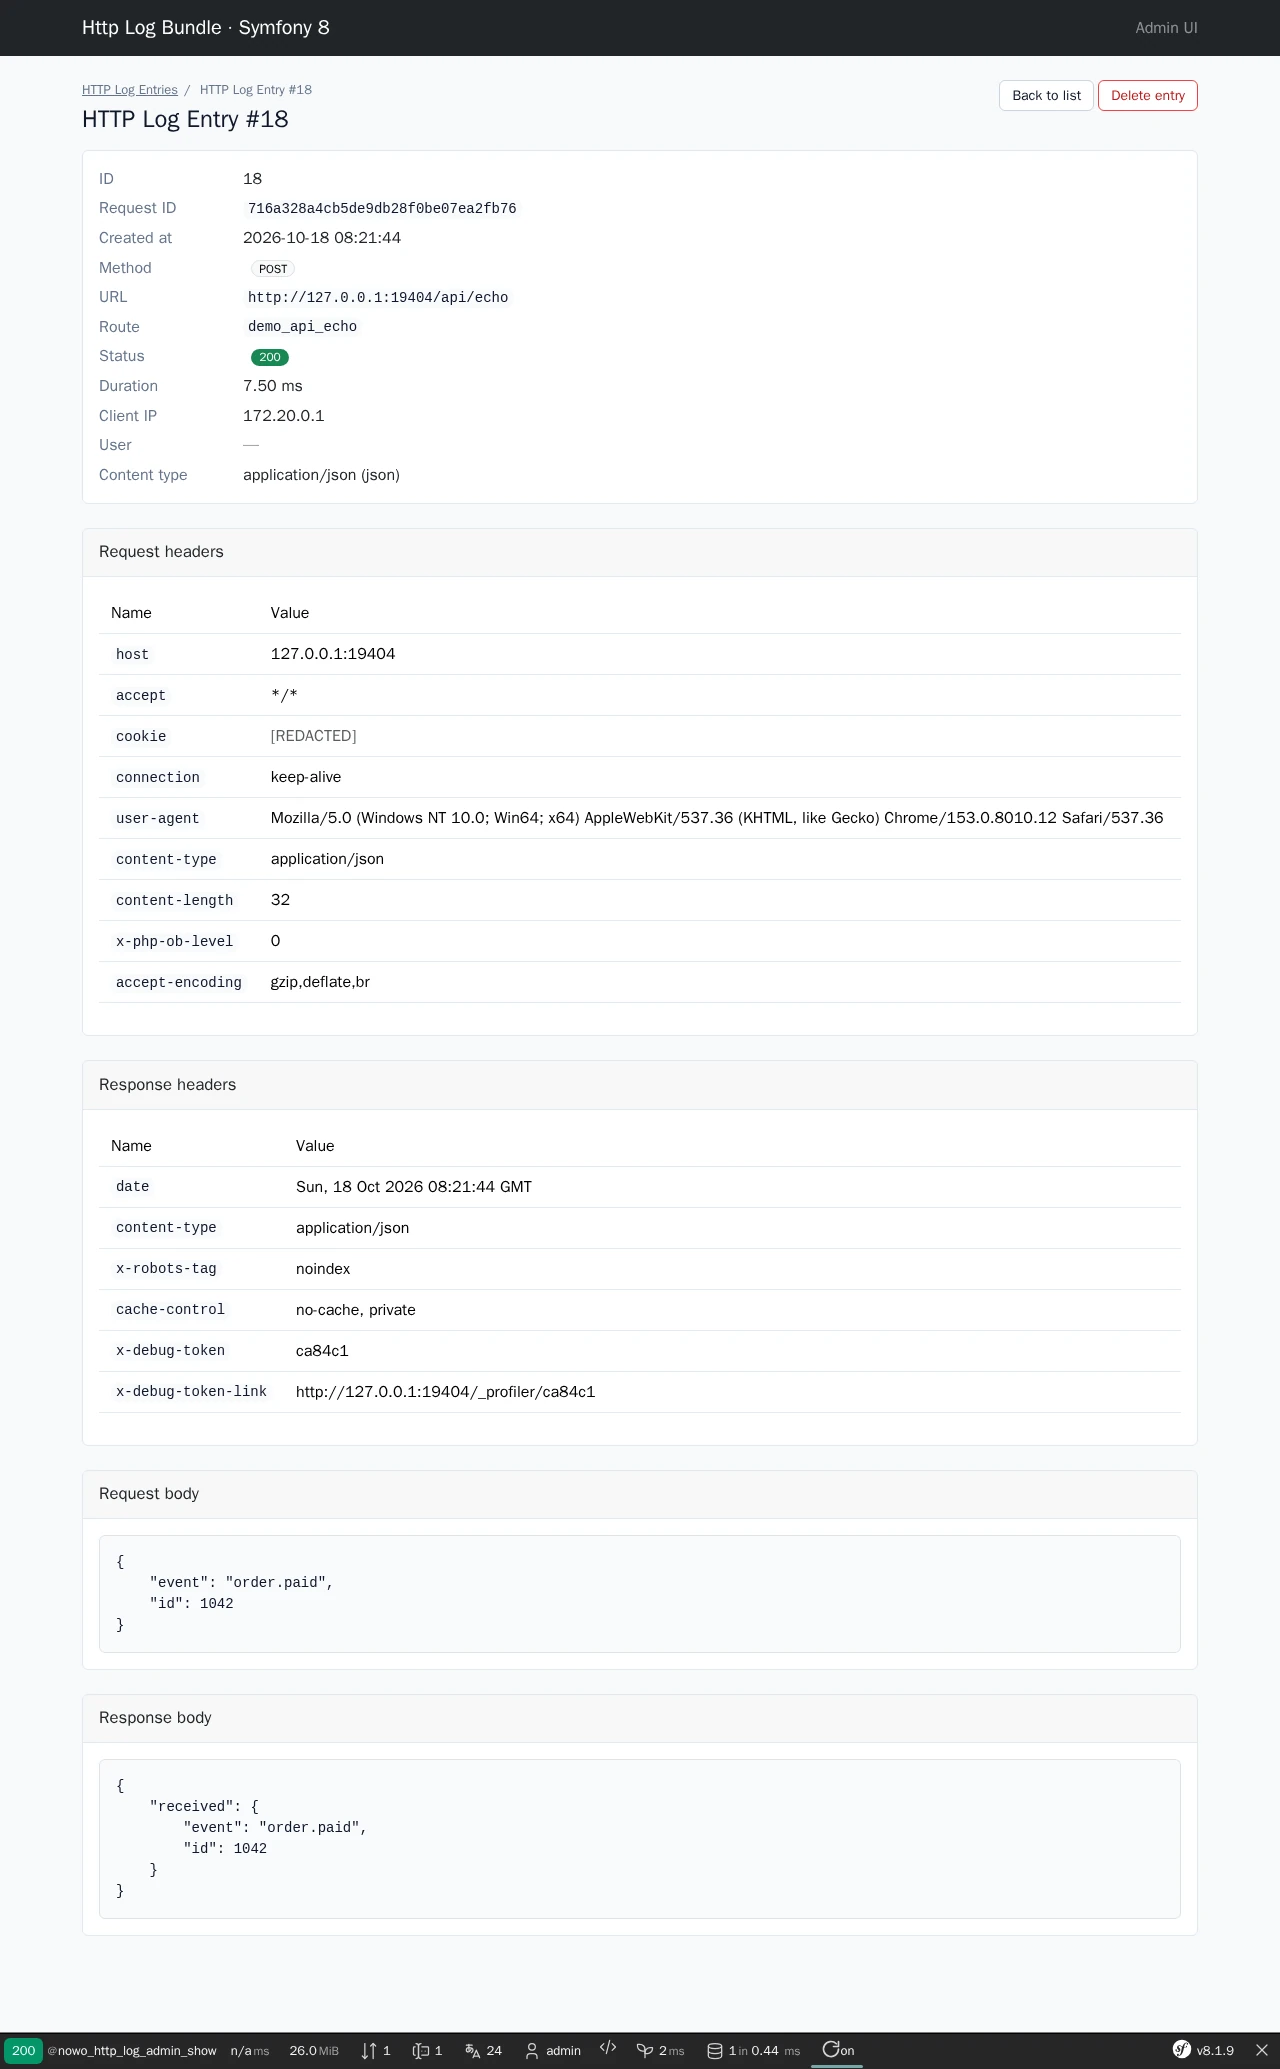
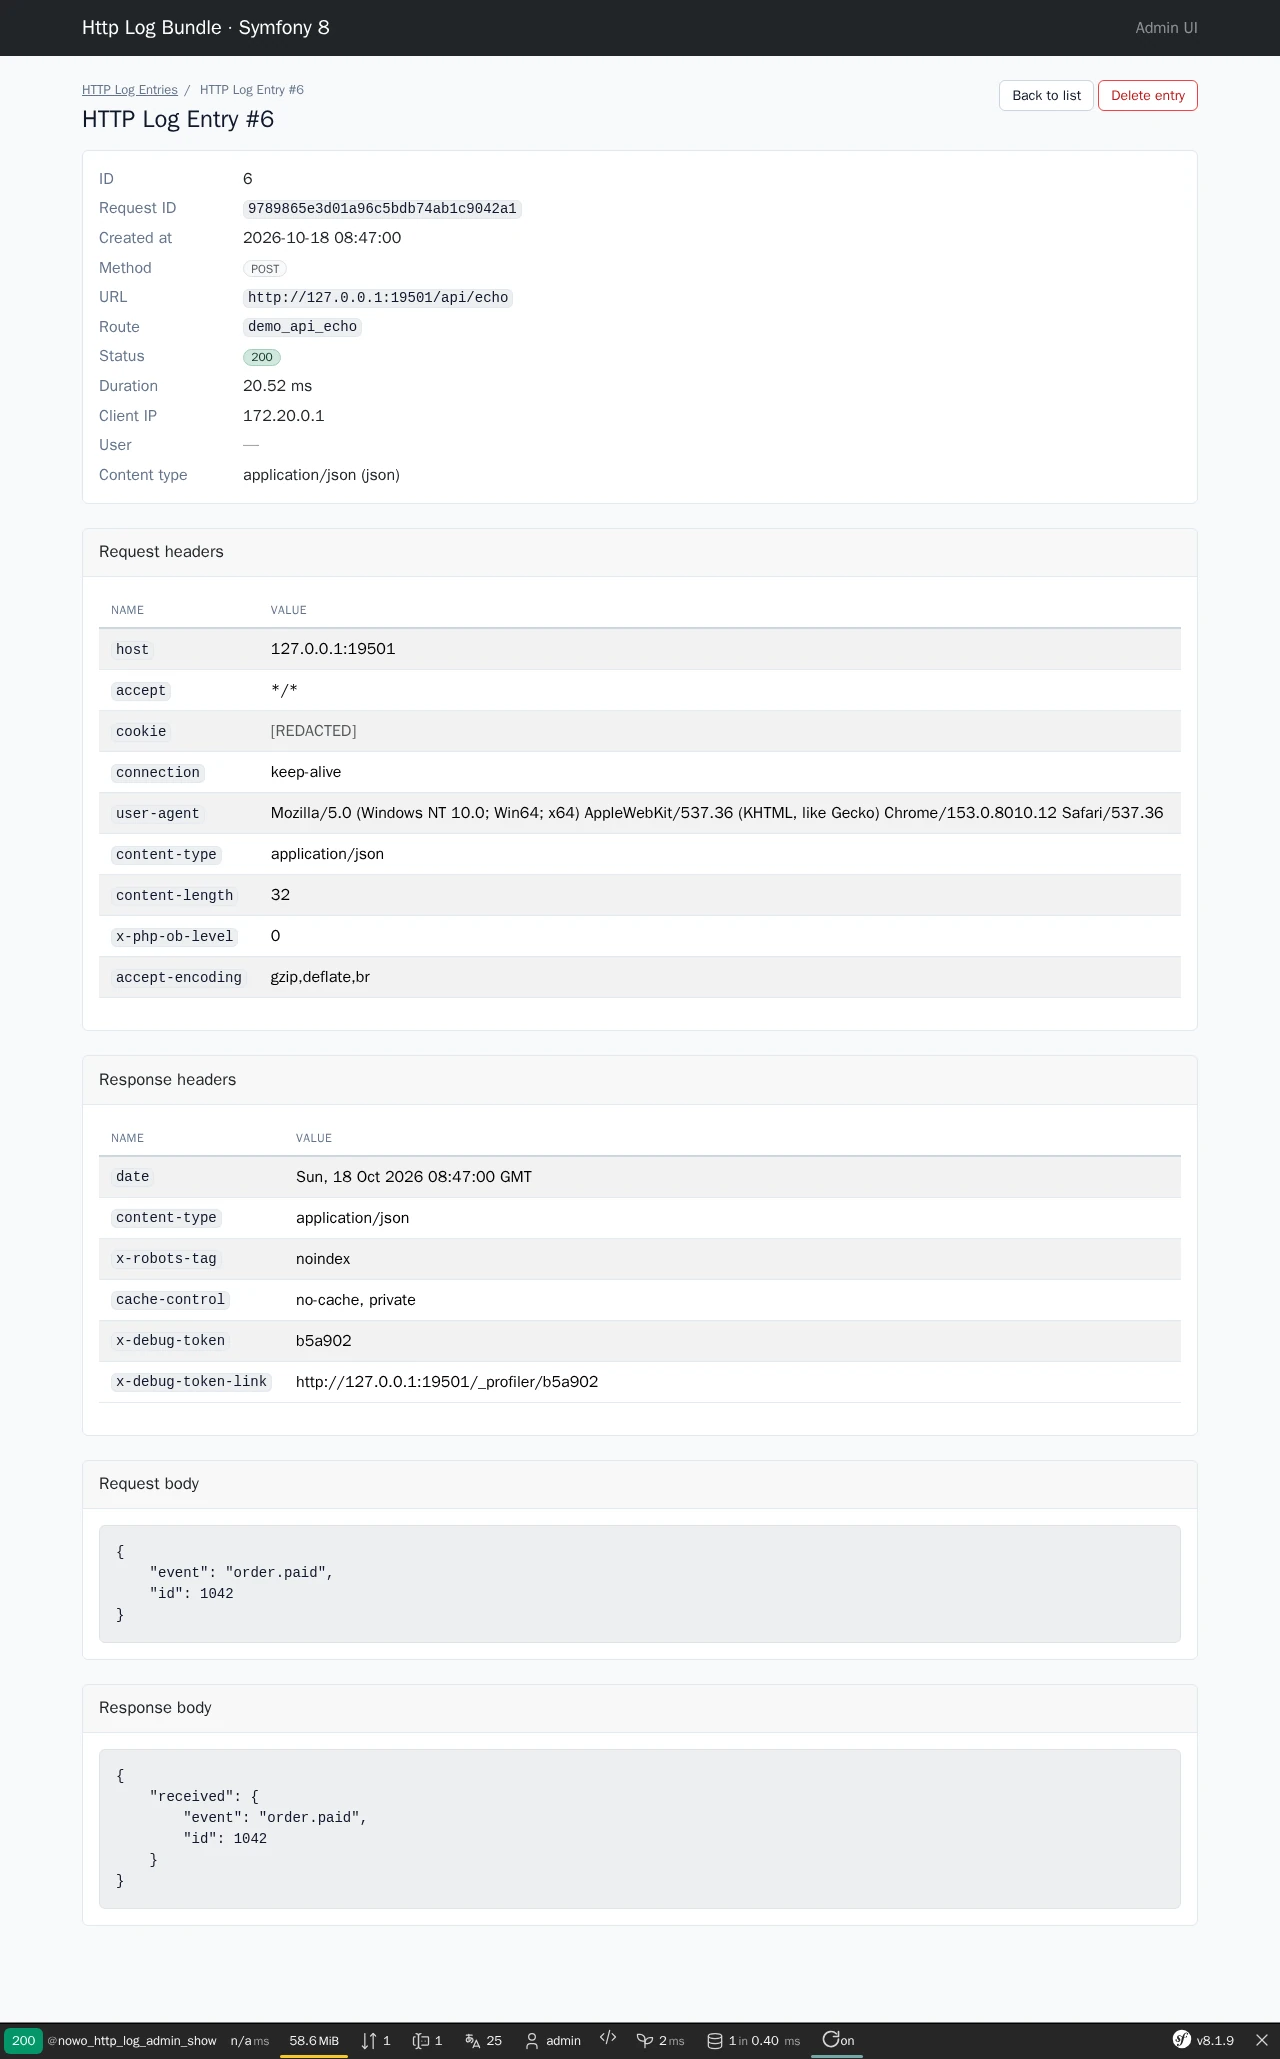
docs: changelog, upgrading and re-captured screenshots for UiKit 2.2 (REQ-DEMO-013)

diff --git a/docs/CHANGELOG.md b/docs/CHANGELOG.md
@@ -32,6 +32,20 @@ and this project adheres to [Semantic Versioning](https://semver.org/spec/v2.0.0
 
 ## [Unreleased]
 
+### Changed
+
+- Requires `nowo-tech/ui-kit-bundle` **^2.2** (default-theme polish: table header hierarchy, striped rows, subtle
+  badges, grid filter row, solid destructive confirm button with a close button). See [UPGRADING](UPGRADING.md#unreleased).
+- Entry page: the header / query-parameter tables render through the UiKit 2.2 `table` partial (`View\Table` from
+  `AdminPages::keyValueTable()`, also exposed as `payload.tables`) instead of a hand-written table; the section title
+  is the table's accessible name.
+- Demo: the host layout prints the UiKit runtimes through the UiKit `scripts` partial (the hand-kept list lacked
+  `dialog` and `theme`).
+
+### Fixed
+
+- List: entries logged within the same second are ordered newest id first (stable pages; the order was undefined).
+
 ## [1.9.0] - 2026-10-18
 
 `/_wdt/` and `/_profiler/` ignored by default, entry URL keeps the port; readable entry page (badges, header tables, pretty JSON bodies) and grouped list filters. See [UPGRADING](UPGRADING.md#to-190).

diff --git a/docs/UPGRADING.md b/docs/UPGRADING.md
@@ -39,6 +39,17 @@ This document describes how to upgrade between versions of **Http Log Bundle**.
 
 ## Unreleased
 
+Requires UiKit **^2.2** (`composer require nowo-tech/ui-kit-bundle:^2.2`). No configuration change. What hosts may
+notice:
+
+- **Entry page tables**: the header / query-parameter tables come from the UiKit `table` partial — same cells
+  (`nowo-http-log-kv__name` / `__value`, `data-nowo-http-log-redacted`), but the `<table>` no longer carries the
+  `nowo-http-log-kv` class and gets `aria-label` (the section title). Overrides of `admin/show.html.twig` that call the
+  `key_values` macro pass a `View\Table` (`payload.tables.<section>`) instead of the rows.
+- **Default theme** (UiKit 2.2): table headers in small uppercase labels, striped rows, subtle badges, the filter
+  row on a grid (fields in source order, the Filter button after the last field), solid red confirm button. Hosts that
+  styled danger confirms through `btn_danger` set `btn_danger_solid` too (UiKit UPGRADING "Template contract (2.2)").
+
 ## To 1.9.0
 
 From **1.8.0**:
